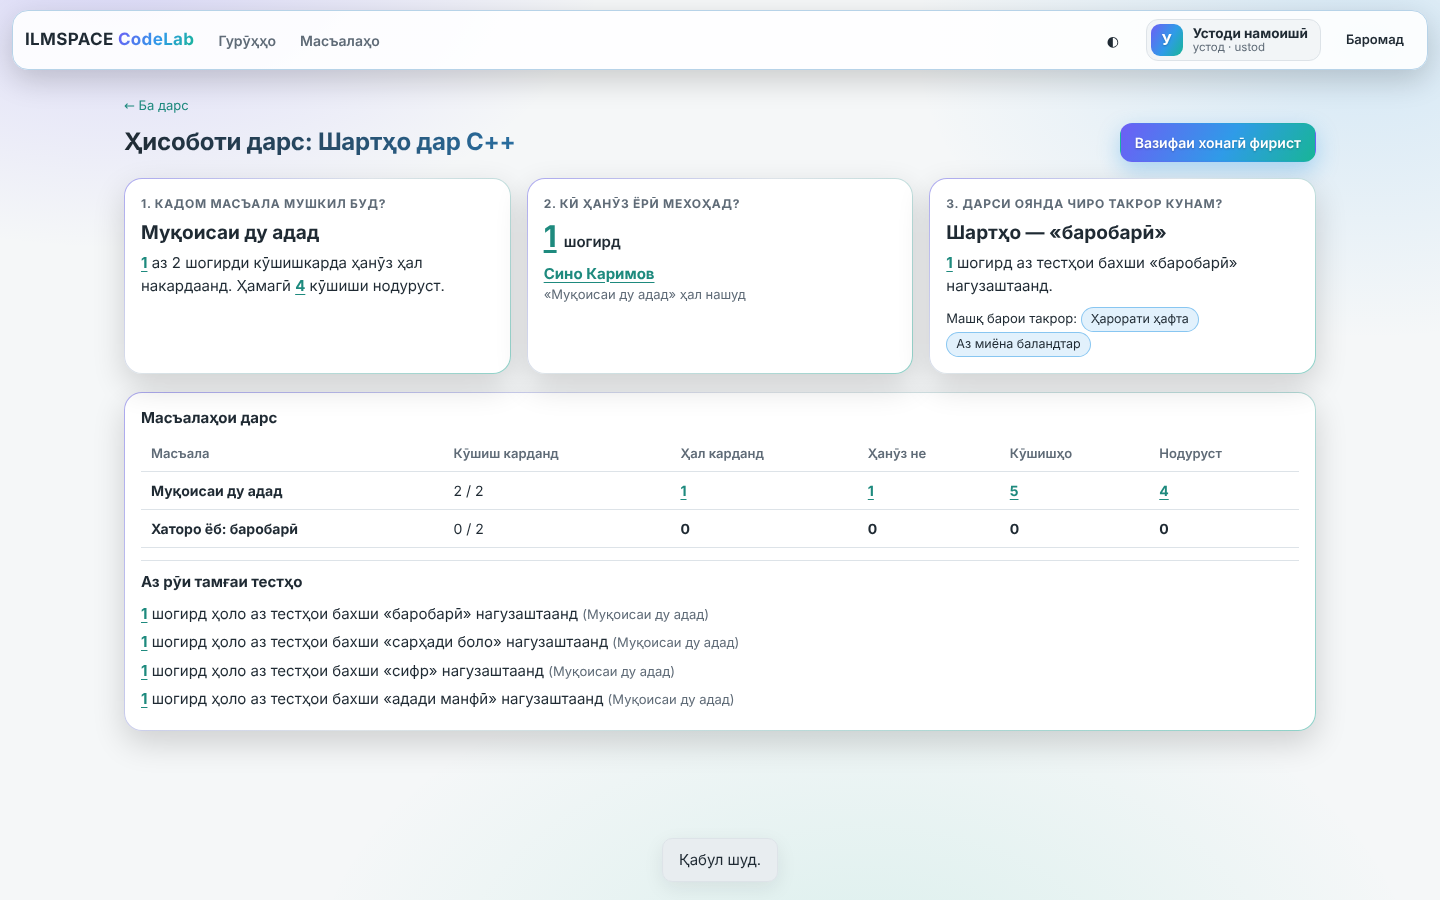
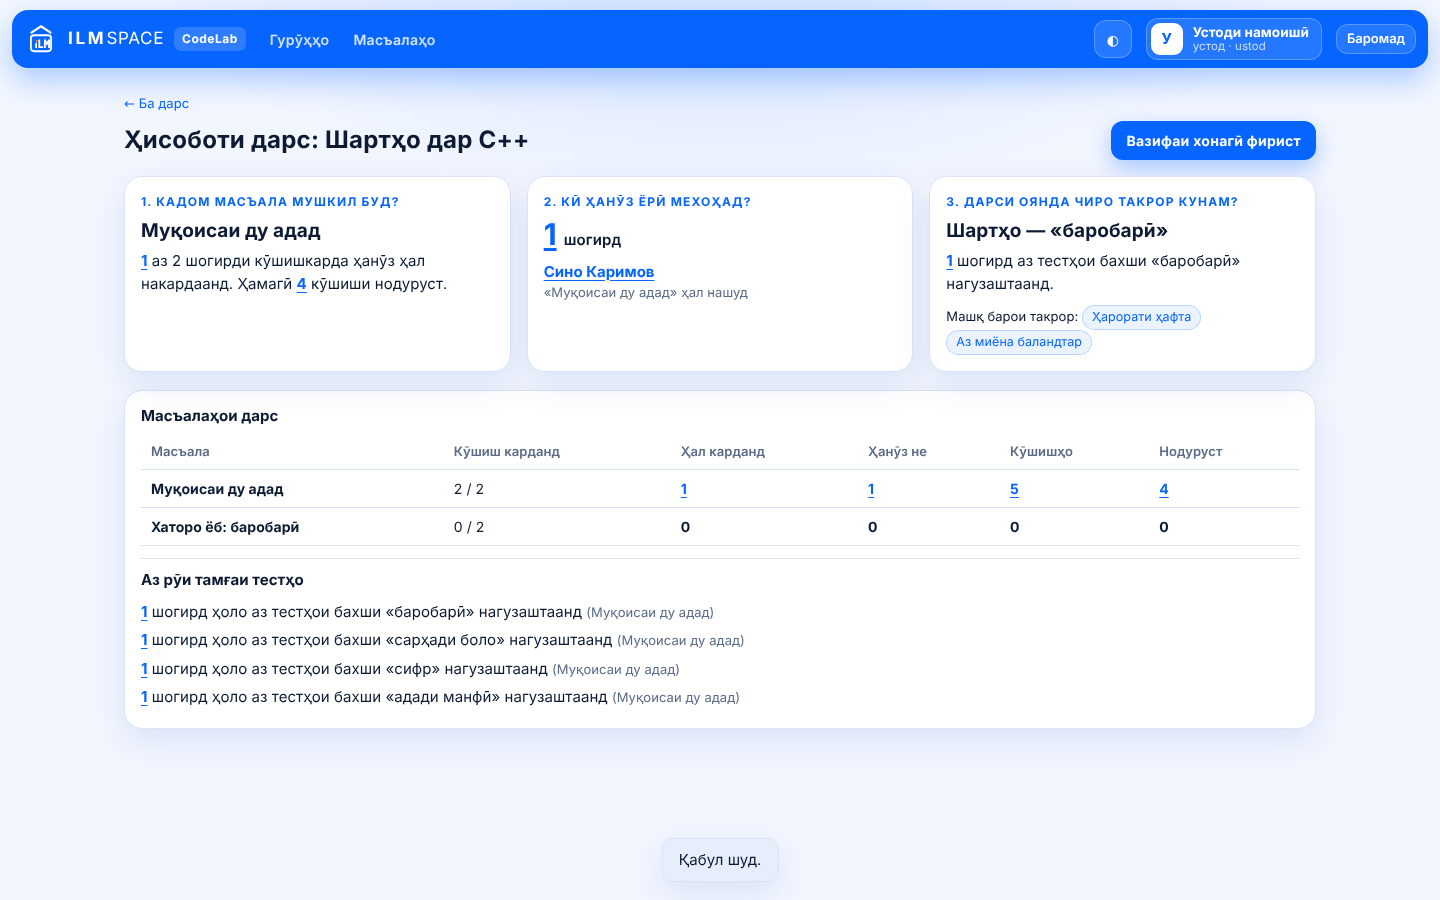
Тарҳи бренди ILMSPACE ба сайт: кабуд + сафед + норинҷӣ, логотип дар сарлавҳа
Claude-Session: https://claude.ai/code/session_01KDgEcX2EuYCxtb9ZZasZwA

diff --git a/web/public/styles.css b/web/public/styles.css
@@ -954,3 +954,7 @@ body::before { background: radial-gradient(900px 480px at 50% -14%, color-mix(in
 .jt input[type=checkbox]:checked { background: var(--brand); border-color: var(--brand); }
 .jt input[type=checkbox]::after { border-color: #fff; }
 .jav { box-shadow: none; }
+/* Рангҳои маҷмӯаҳо дар нақшаи курс — мувофиқи бренд (кабуд, осмонӣ, фирӯзаӣ, норинҷӣ) */
+:root, :root[data-theme="dark"] { --c-class: #6b8cff; --c-home: #3aa9ff; --c-extra: #2cc3cf; --c-exam: #ff8f45; --c-amber: #ff8f45; }
+:root[data-theme="light"] { --c-class: #2f55e0; --c-home: #0a73d9; --c-extra: #0b8794; --c-exam: #d35f12; --c-amber: #d35f12; }
+@media (prefers-color-scheme: light) { :root:not([data-theme="dark"]) { --c-class: #2f55e0; --c-home: #0a73d9; --c-extra: #0b8794; --c-exam: #d35f12; --c-amber: #d35f12; } }

diff --git a/docs/acceptance.md b/docs/acceptance.md
@@ -1,6 +1,6 @@
 # Натиҷаи санҷишҳои қабул
 
-Сана: 2026-11-28T14:08:46.255Z · Браузер: Chromium (Playwright) · Санҷанда: g++ (local), барои банди 6 — Judge0-и қатъшуда
+Сана: 2026-11-28T14:15:50.974Z · Браузер: Chromium (Playwright) · Санҷанда: g++ (local), барои банди 6 — Judge0-и қатъшуда
 
 **70 аз 70 санҷиш гузашт.**
 

diff --git a/docs/verification.md b/docs/verification.md
@@ -1,6 +1,6 @@
 # Санҷиши масъалаҳо бо ҳалли намунавӣ
 
-Сана: 2026-11-28T14:08:41.249Z · Санҷанда: `local` (g++ C++17, иҷрои воқеӣ)
+Сана: 2026-11-28T14:15:45.826Z · Санҷанда: `local` (g++ C++17, иҷрои воқеӣ)
 
 | # | Масъала | Мавзӯъ | Мисолҳо | Тестҳо (ҳамагӣ) | Пинҳонӣ | Натиҷа |
 |---|---|---|---|---|---|---|
